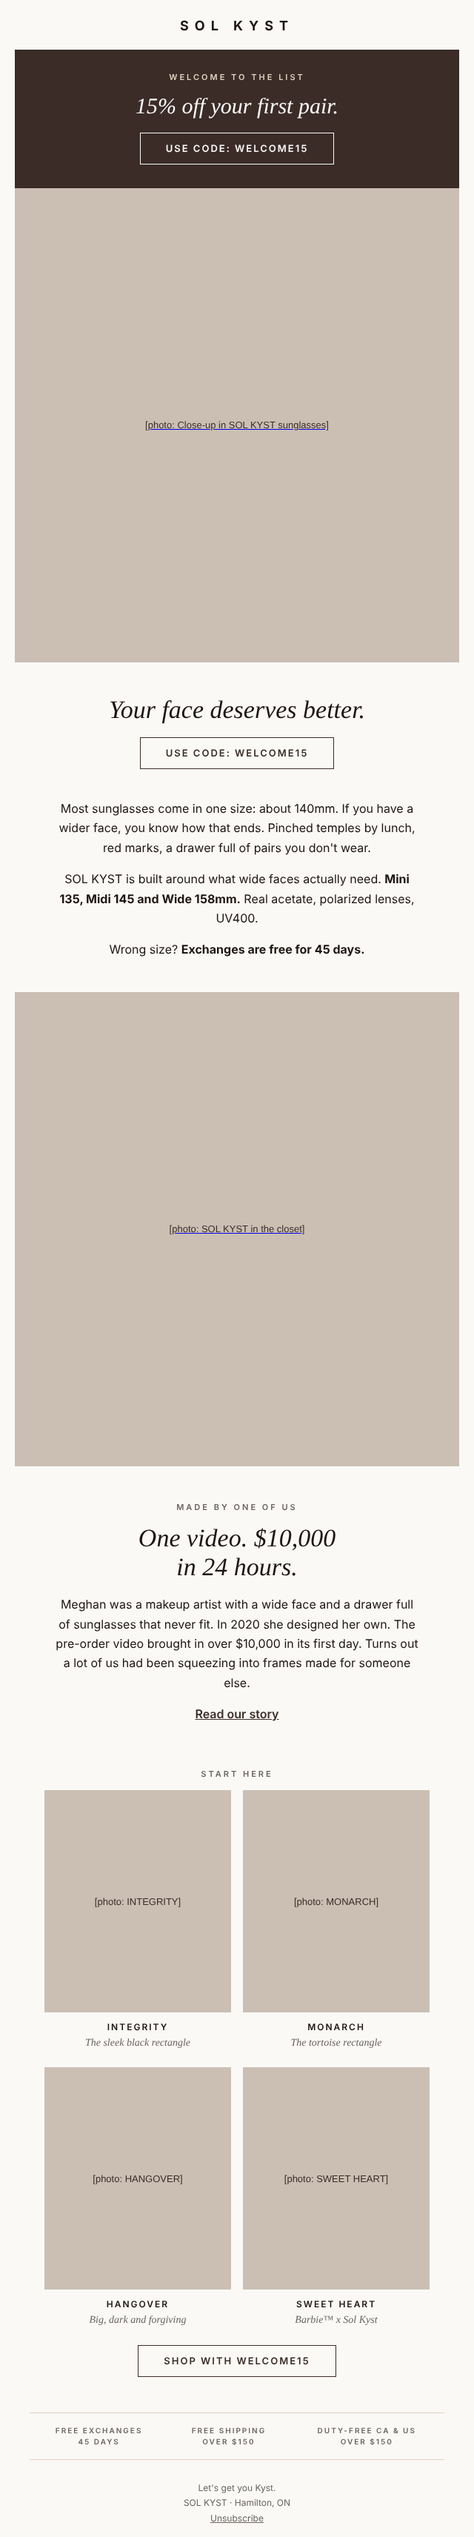
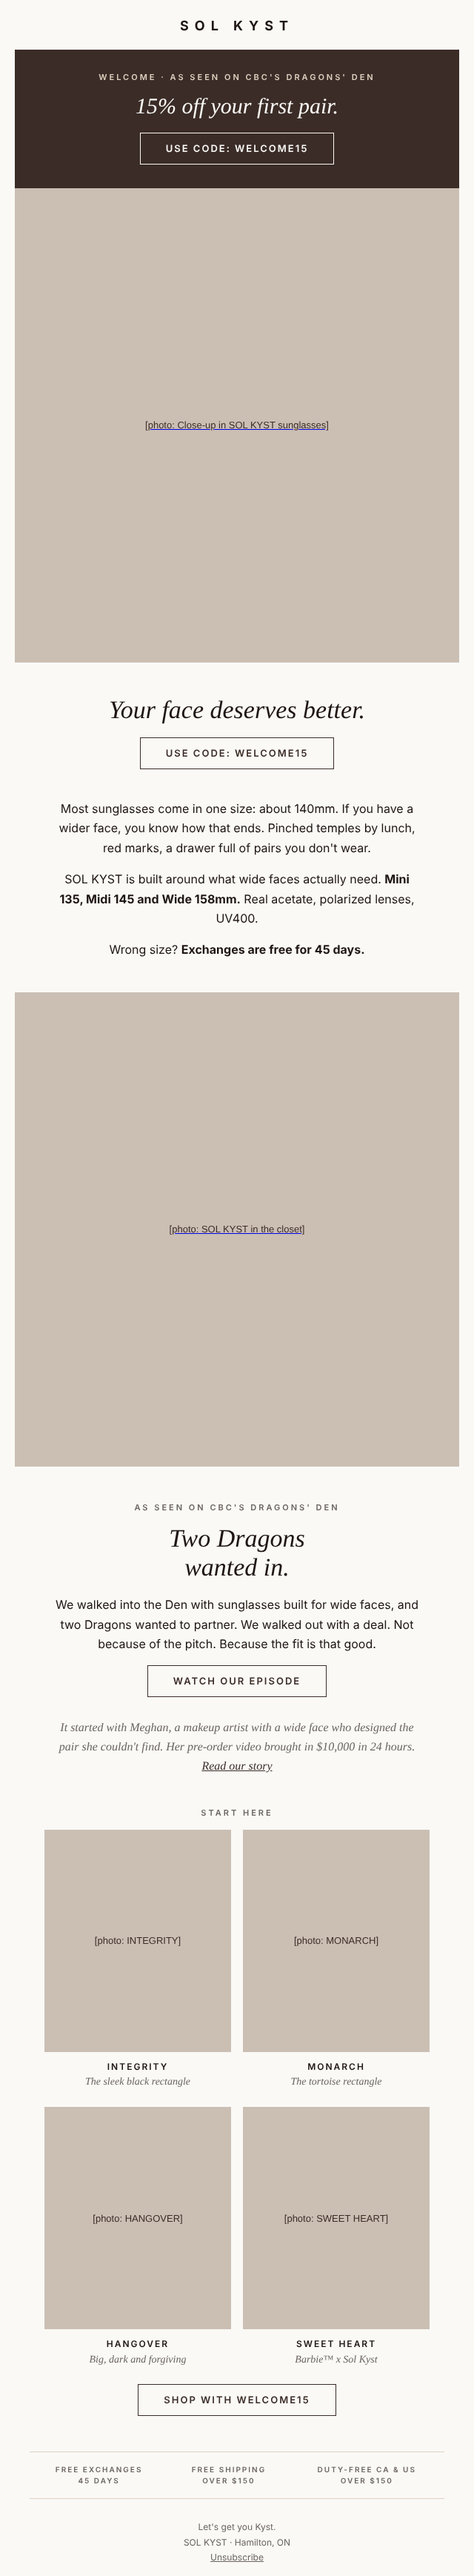
Welcome email: feature Dragons' Den deal as the proof section
Claude-Session: https://claude.ai/code/session_01PPffxMnLNyNCrFX2vAsgg8

diff --git a/email-flows/templates/welcome-15.html b/email-flows/templates/welcome-15.html
@@ -10,7 +10,7 @@ body{margin:0;padding:0;background:#FAF9F6}
 <tr><td style="padding:26px 20px 22px;text-align:center"><a href="https://www.solkyst.ca" style="font:700 18px/1 'Helvetica Neue', Helvetica, Arial, sans-serif;letter-spacing:8px;color:#1E1512;text-decoration:none">SOL KYST</a></td></tr>
 
 <tr><td class="pad" style="background:#3B2C27;padding:30px 40px 32px;text-align:center">
-<p style="margin:0 0 14px;font:600 11px/1.4 'Helvetica Neue', Helvetica, Arial, sans-serif;letter-spacing:3px;text-transform:uppercase;color:#DFD1C0;text-align:center">Welcome to the list</p>
+<p style="margin:0 0 14px;font:600 11px/1.4 'Helvetica Neue', Helvetica, Arial, sans-serif;letter-spacing:3px;text-transform:uppercase;color:#DFD1C0;text-align:center">Welcome &middot; As seen on CBC&#39;s Dragons&#39; Den</p>
 <p style="margin:0 0 18px;font:italic 400 30px/1.15 Georgia, 'Times New Roman', serif;color:#FAF9F6;text-align:center">15% off your first pair.</p>
 <table role="presentation" cellpadding="0" cellspacing="0" border="0" align="center" style="margin:0 auto"><tr><td style="border:1.5px solid #FAF9F6"><a href="https://www.solkyst.ca/discount/WELCOME15" style="display:inline-block;padding:14px 34px;font:600 13px/1 'Helvetica Neue', Helvetica, Arial, sans-serif;letter-spacing:2px;text-transform:uppercase;color:#FAF9F6;text-decoration:none">Use code: WELCOME15</a></td></tr></table>
 </td></tr>
@@ -31,10 +31,11 @@ body{margin:0;padding:0;background:#FAF9F6}
 <tr><td><a href="https://www.solkyst.ca/discount/WELCOME15?redirect=/collections/all"><img src="https://cdn.shopify.com/s/files/1/0444/2089/0784/files/08761334-FDD5-4052-AAF3-2AE402CD4769.jpg?v=1791669974&width=1200" width="600" alt="SOL KYST in the closet" style="display:block;width:100%;max-width:600px;height:auto;border:0"></a></td></tr>
 
 <tr><td class="pad" style="padding:48px 52px 36px;text-align:center">
-<p style="margin:0 0 14px;font:600 11px/1.4 'Helvetica Neue', Helvetica, Arial, sans-serif;letter-spacing:3px;text-transform:uppercase;color:#6B6460;text-align:center">Made by one of us</p>
-<p style="margin:0 0 18px;font:italic 400 34px/1.15 Georgia, 'Times New Roman', serif;color:#1E1512;text-align:center">One video. $10,000<br>in 24 hours.</p>
-<p style="margin:0 0 16px;font:400 16px/1.65 'Helvetica Neue', Helvetica, Arial, sans-serif;color:#1E1512;text-align:center">Meghan was a makeup artist with a wide face and a drawer full of sunglasses that never fit. In 2020 she designed her own. The pre-order video brought in over $10,000 in its first day. Turns out a lot of us had been squeezing into frames made for someone else.</p>
-<p style="margin:0 0 16px;font:400 16px/1.65 'Helvetica Neue', Helvetica, Arial, sans-serif;color:#1E1512;text-align:center"><a href="https://www.solkyst.ca/pages/about" style="color:#3B2C27;font-weight:600">Read our story</a></p>
+<p style="margin:0 0 14px;font:600 11px/1.4 'Helvetica Neue', Helvetica, Arial, sans-serif;letter-spacing:3px;text-transform:uppercase;color:#6B6460;text-align:center">As seen on CBC&#39;s Dragons&#39; Den</p>
+<p style="margin:0 0 18px;font:italic 400 34px/1.15 Georgia, 'Times New Roman', serif;color:#1E1512;text-align:center">Two Dragons<br>wanted in.</p>
+<p style="margin:0 0 16px;font:400 16px/1.65 'Helvetica Neue', Helvetica, Arial, sans-serif;color:#1E1512;text-align:center">We walked into the Den with sunglasses built for wide faces, and two Dragons wanted to partner. We walked out with a deal. Not because of the pitch. Because the fit is that good.</p>
+<table role="presentation" cellpadding="0" cellspacing="0" border="0" align="center" style="margin:0 auto"><tr><td style="border:1.5px solid #3B2C27"><a href="https://www.cbc.ca/dragonsden" style="display:inline-block;padding:14px 34px;font:600 13px/1 'Helvetica Neue', Helvetica, Arial, sans-serif;letter-spacing:2px;text-transform:uppercase;color:#3B2C27;text-decoration:none">Watch our episode</a></td></tr></table>
+<p style="margin:28px 0 0;font:italic 16px/1.6 Georgia, 'Times New Roman', serif;color:#6B6460;text-align:center">It started with Meghan, a makeup artist with a wide face who designed the pair she couldn&#39;t find. Her pre-order video brought in $10,000 in 24 hours. <a href="https://www.solkyst.ca/pages/about" style="color:#3B2C27">Read our story</a></p>
 </td></tr>
 
 <tr><td class="pad" style="padding:8px 32px 8px">

diff --git a/email-flows/build_welcome.py b/email-flows/build_welcome.py
@@ -7,6 +7,7 @@ import pathlib, sys
 SITE = "https://www.solkyst.ca"
 CODE = "WELCOME15"  # placeholder: create this 15% first-order code in Shopify before going live
 DISC = f"{SITE}/discount/{CODE}"
+DEN = "https://www.cbc.ca/dragonsden"  # placeholder: swap for the exact SOL KYST episode/pitch link
 COCOA, IVORY, LINEN, INK, MUTED = "#3B2C27", "#FAF9F6", "#DFD1C0", "#1E1512", "#6B6460"
 SERIF = "Georgia, 'Times New Roman', serif"
 SANS = "'Helvetica Neue', Helvetica, Arial, sans-serif"
@@ -64,7 +65,7 @@ body{{margin:0;padding:0;background:{IVORY}}}
 <tr><td style="padding:26px 20px 22px;text-align:center"><a href="{SITE}" style="font:700 18px/1 {SANS};letter-spacing:8px;color:{INK};text-decoration:none">SOL KYST</a></td></tr>
 
 <tr><td class="pad" style="background:{COCOA};padding:30px 40px 32px;text-align:center">
-{eyebrow("Welcome to the list", LINEN)}
+{eyebrow("Welcome &middot; As seen on CBC&#39;s Dragons&#39; Den", LINEN)}
 {headline("15% off your first pair.", IVORY, 30)}
 {button(f"Use code: {CODE}", link(), IVORY, IVORY)}
 </td></tr>
@@ -85,10 +86,11 @@ body{{margin:0;padding:0;background:{IVORY}}}
 <tr><td>{image(MID, link("/collections/all"), "SOL KYST in the closet")}</td></tr>
 
 <tr><td class="pad" style="padding:48px 52px 36px;text-align:center">
-{eyebrow("Made by one of us")}
-{headline("One video. $10,000<br>in 24 hours.")}
-{body("Meghan was a makeup artist with a wide face and a drawer full of sunglasses that never fit. In 2020 she designed her own. The pre-order video brought in over $10,000 in its first day. Turns out a lot of us had been squeezing into frames made for someone else.")}
-{body(f'<a href="{SITE}/pages/about" style="color:{COCOA};font-weight:600">Read our story</a>')}
+{eyebrow("As seen on CBC&#39;s Dragons&#39; Den")}
+{headline("Two Dragons<br>wanted in.")}
+{body("We walked into the Den with sunglasses built for wide faces, and two Dragons wanted to partner. We walked out with a deal. Not because of the pitch. Because the fit is that good.")}
+{button("Watch our episode", DEN, COCOA, COCOA)}
+<p style="margin:28px 0 0;font:italic 16px/1.6 {SERIF};color:{MUTED};text-align:center">It started with Meghan, a makeup artist with a wide face who designed the pair she couldn&#39;t find. Her pre-order video brought in $10,000 in 24 hours. <a href="{SITE}/pages/about" style="color:{COCOA}">Read our story</a></p>
 </td></tr>
 
 <tr><td class="pad" style="padding:8px 32px 8px">
